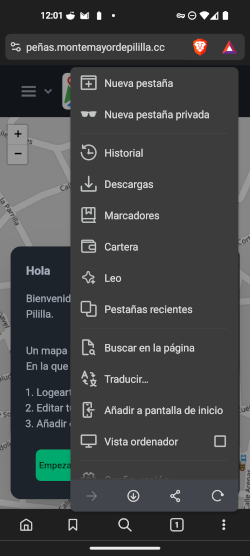
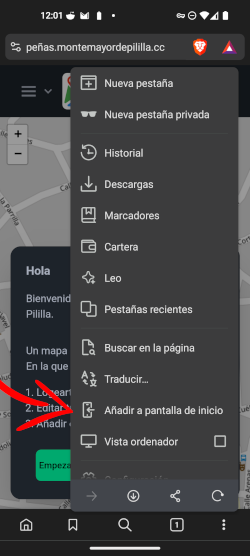
add step0

Changed region(s): [[0.0, 0.6727, 0.308, 0.795]]

diff --git a/src/routes/wellcome/step-to-install/+page.svelte b/src/routes/wellcome/step-to-install/+page.svelte
@@ -9,6 +9,7 @@
 	import 'swiper/css/navigation';
 	import 'swiper/css/pagination';
 
+	import step0 from '$lib/assets/step0.png';
 	import step1 from '$lib/assets/step1.png';
 	import step2 from '$lib/assets/step2.png';
 	import step3 from '$lib/assets/step3.png';
@@ -37,6 +38,7 @@
 	<div class="container mx-auto px-4 text-center">
 		<div class="swiper steps">
 			<div class="swiper-wrapper">
+				<div class="swiper-slide"><img src={step0} alt="step0" /></div>
 				<div class="swiper-slide"><img src={step1} alt="step1" /></div>
 				<div class="swiper-slide"><img src={step2} alt="step2" /></div>
 				<div class="swiper-slide"><img src={step3} alt="step3" /></div>
